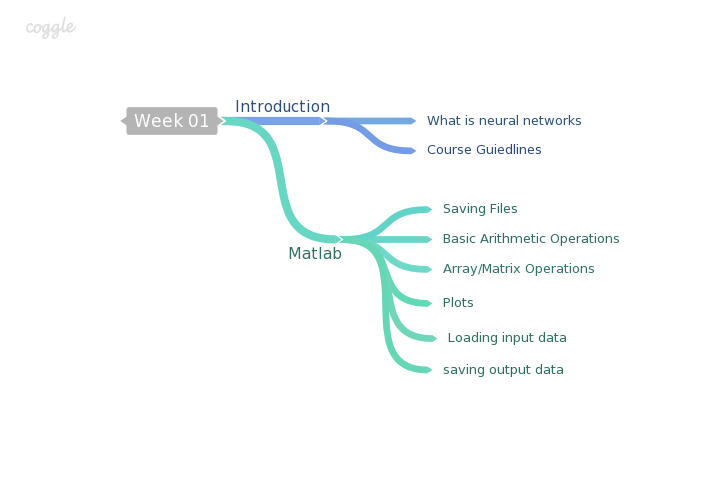
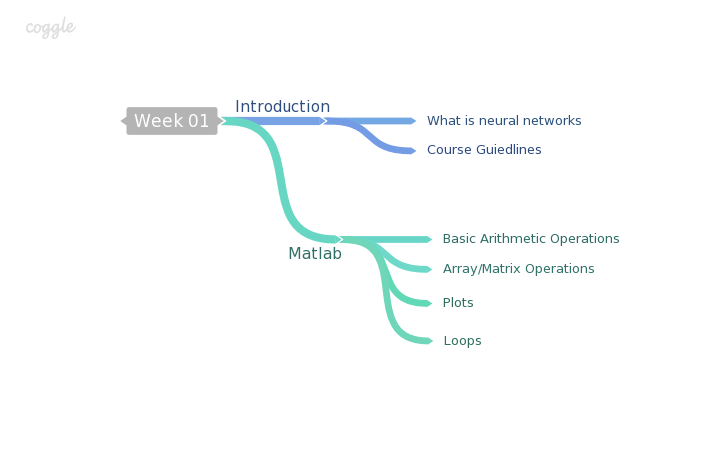
week 2 added

Changed region(s): [[0.1538, 0.185, 0.8615, 0.8018], [0.0615, 0.0617, 0.0923, 0.0925]]

diff --git a/Week01/code.m b/Week01/code.m
@@ -29,4 +29,36 @@ v1 * 5 % each item in v1 is multiplied by 5
 
 
 
+r1 = [1 : 100] % a vector of numbers from 1 to 100
+
+
+r = [1:0.01:10] % a vector of numbers from 1 to 10 with step 0.01
+
+
+f = [0:0.01:1];
+plot(f,sin(2 * pi * f)) % plots sin wave
+
+
+hold on 
+plot (f,2 * sin(2 * pi * f),'r^')
+plot (f,3 * sin(2 * pi * f),'b*--')
+hold off
+
+figure(2)
+hold on
+for i = [ 1 : 10]
+    plot (f,i * sin(2 * pi * f),'b--')
+end
+hold off
+
+figure(3)
+hold on
+for i = [ 0:0.5 : 3]
+    plot (f, sin(i * pi * f),'b--')
+end
+hold off
+
+
+
+
 

diff --git a/Week02/code.m b/Week02/code.m
@@ -1,0 +1,32 @@
+% this is a comment 
+
+% Simple arithmatic
+1 + 5
+2 - 9
+5 * 3.14159265369
+5/2
+1/0 % thats infinaty :)
+
+
+% Vectors and Matrices
+v1 = [ 1 2 3 4 5 6 7] % row
+v2 = [ 1 ;2 ; 3 ; 4 ; 5 ;6 ;7] % colomn
+v1' %transpose
+v2' %transpose
+
+
+
+m1 = [1 2 3 ;4 5 6;7 8 9]
+m1'
+
+
+v1 = 1:5 % numbers from 1 to 5
+
+v2 = 0:2:10 %even numbers from 0 to 10
+
+
+v1 * 5 % each item in v1 is multiplied by 5
+
+
+
+

diff --git a/Week02/README.md b/Week02/README.md
@@ -1,0 +1,9 @@
+#Week 02
+
+- Image Manipulations
+
+
+
+![alt text](https://raw2.github.com/TheNightPhoenix/NeuralNetworksCC524/master/Week02/map.png "Class Mind Map")
+
+

diff --git a/Week02/Assignments.md b/Week02/Assignments.md
@@ -1,0 +1,6 @@
+#Assignments
+
+No Assignments for this week.
+
+
+
